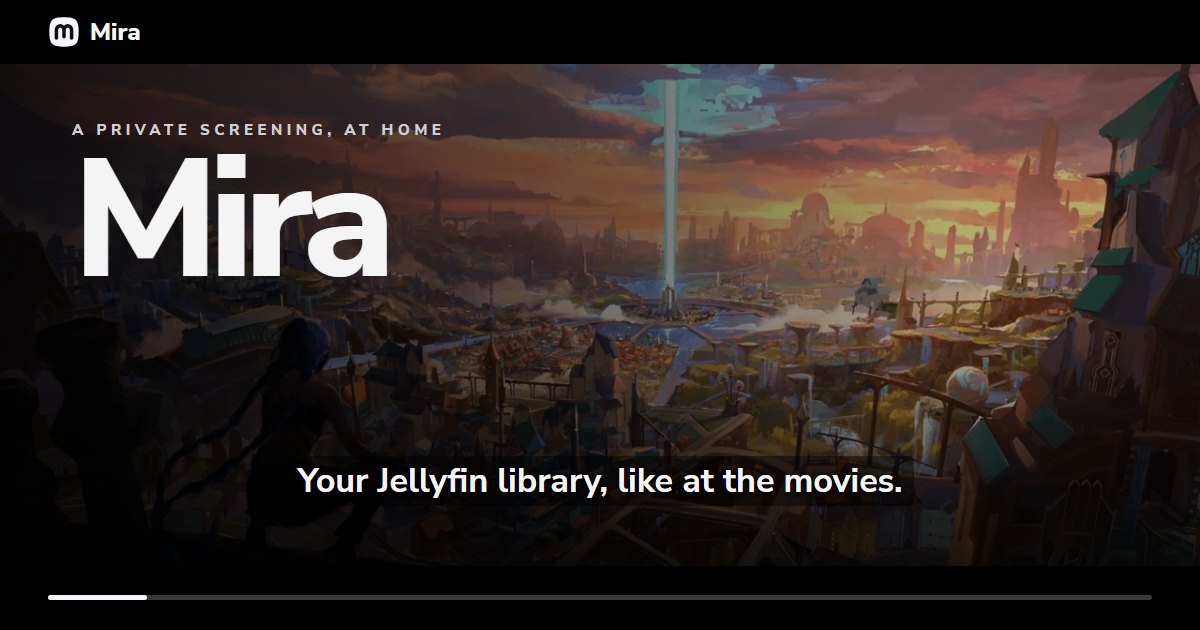
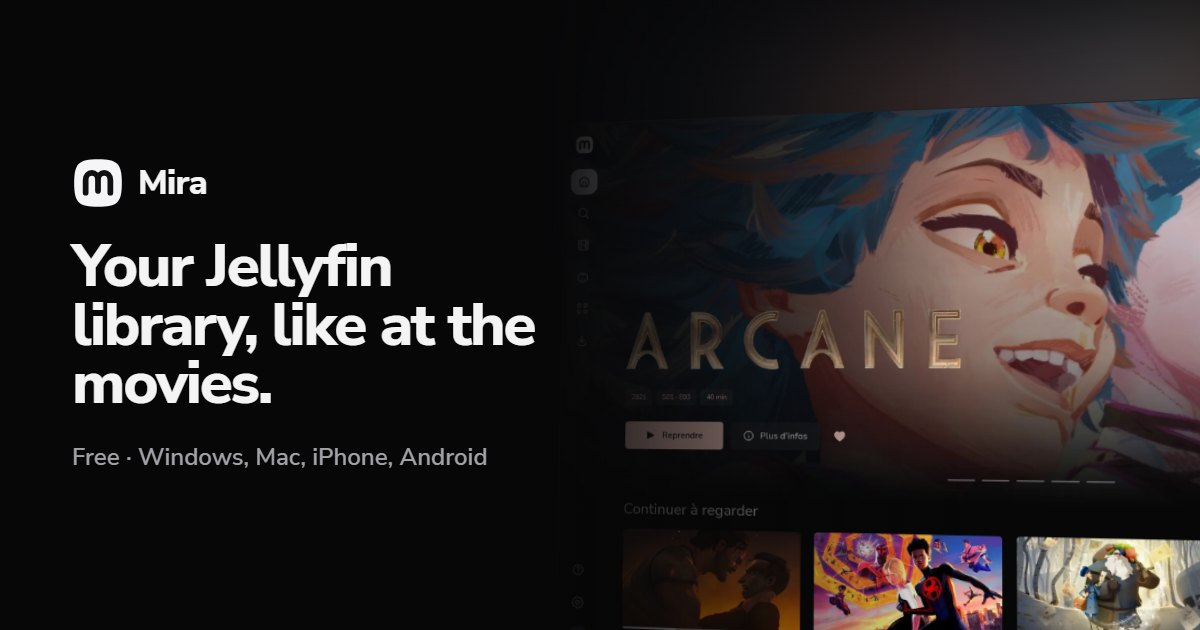
Show Mira for Windows' Home beside the site's line on the share cards

diff --git a/site/index.html b/site/index.html
@@ -17,7 +17,7 @@
   <meta property="og:title" content="Mira : ta bibliothèque Jellyfin, comme au cinéma">
   <meta property="og:description" content="Un client Jellyfin gratuit pour Windows, Mac, iPhone et Android. Sans compte, sans publicité, et rien ne quitte ton serveur.">
   <meta property="og:url" content="https://miracinema.app/">
-  <meta property="og:image" content="https://miracinema.app/img/share.jpg?v=ffa3bc8ddd">
+  <meta property="og:image" content="https://miracinema.app/img/share.jpg?v=827014fae3">
   <meta property="og:image:width" content="1200">
   <meta property="og:image:height" content="630">
   <meta property="og:locale" content="fr_FR">

diff --git a/site/en/index.html b/site/en/index.html
@@ -17,7 +17,7 @@
   <meta property="og:title" content="Mira: your Jellyfin library, like at the movies">
   <meta property="og:description" content="A free Jellyfin client for Windows, Mac, iPhone and Android. No account, no ads, and nothing leaves your server.">
   <meta property="og:url" content="https://miracinema.app/en/">
-  <meta property="og:image" content="https://miracinema.app/img/share-en.jpg?v=e769b4459d">
+  <meta property="og:image" content="https://miracinema.app/img/share-en.jpg?v=c2b7f2cbe6">
   <meta property="og:image:width" content="1200">
   <meta property="og:image:height" content="630">
   <meta property="og:locale" content="en_US">

diff --git a/CLAUDE.md b/CLAUDE.md
@@ -87,7 +87,7 @@ Android, servie par le serveur Jellyfin lui-même. Pour un particulier qui regar
 - 2026-10-16 — Mira web en anglais par défaut (demandé par l’utilisateur) : `i18n.js`, français écrit dans le code, anglais dans `lang/en/*.js` (une partie par zone), clé = texte français (`tr`, `trn` pour les comptes, `trc(contexte, …)` quand l’anglais dit deux choses) ; français si le navigateur met le français avant l’anglais, ou `settings.language` (Réglages → Langue, recharge la page) ; `tools/web/unit/i18n.test.mjs` exige l’anglais de chaque `tr` littéral ; tests Node en français par `unit/fr.mjs`, `check.mjs` en `fr-FR` sauf sa partie anglaise, `safari.mjs` règle `language` ; requêtes `Mira/…` avec `Accept-Language`, erreurs du relais traduites par `RelayText` ; glossaire commun avec Core : `/mnt/project-files/anglais/glossaire.md`.
 - 2026-10-16 — Mira pour Windows en anglais par défaut (demandé par l’utilisateur) : langue lue une fois au démarrage (`App.UseLanguage`) : Réglages → Apparence → Langue (`PlayerSettings.Language`), sinon celle de l’installateur (`ShowLanguageDialog`, `HKCU\Software\Mira\Language` = `english`/`french`, jamais demandée en silencieux : les mises à jour gardent la précédente), sinon Windows ; un changement se dit dans la langue choisie, « Relancer maintenant » (`_restartAtClose`). XAML : `{v:L 'français', 'English'}` (`Views/LExtension.cs`). Contrôles en français (`--language <code>` avec `--data`), galerie publique de `ci.yml` dans la langue du runner (anglais : vérifie que les pages tiennent), `gallery.yml` en `fr`. Langues audio et sous-titres par défaut : celle de Mira avant l’autre (le japonais reste en tête pour l’audio).
 - 2026-10-16 — TorLink seulement sur le PC de Jellyfin (Windows et Mac ; demandé par l'utilisateur) : ailleurs (adresse du serveur qui n'est pas ce PC, `JellyfinOnThisPcAsync`, nom court d'un FQDN Tailscale compris), la page Téléchargements est l'écran de Mira web en natif (`MainWindow.ServerDownloads.cs`, `JellyfinClient.TorLink*Async`, `RemoteLines`, `ReleaseRanking`, cas communs `torlink-lines.json`, `releases.json`), relu toutes les 3 s page à l'écran ; un TorLink ouvert avant est arrêté. Mac : `Views/DownloadsPage.cs`, entrée « downloads » de la barre pour un administrateur (`IsAdministratorAsync`), contrôlée par le self-check (`MockJellyfin` sert le relais). Recherche (2026-10-22, demandé par un ami d'ogsas) : films, séries et animes à la fois, plus de choix de catégorie : catégorie `all`, que le relais découpe en trois recherches pour l'agent (compatible avec un agent plus ancien), résultats mêlés en alternance par `RemoteDownloads.Combine`, marqués de leur catégorie (`RelayHit.Category`), regroupés par catégorie. Classement (web et apps) : source d'abord, 1080p avant 4K, MULTI puis VF, sources seulement pour écarter les mortes et départager (SubsPlease n'en donne pas) ; regroupé par film, épisode, saison, noms romaji rattachés à la série par leurs parenthèses. Sur le PC de Jellyfin (2026-10-22, demandé par ogsas) : le même écran par défaut (`_serverLocal`), sans relais : `torlnk search`, `TorLinkHeadless` pour télécharger et commander (démarré à l'affichage si le terminal tournait ou si la file a des arrêtés), « Vers Jellyfin » de la page en colonne de droite ; terminal à un bouton (`PlayerSettings.TorLinkTerminal`, `--torlink-check` le met à vrai) ; `TorLinkInUse` ne compte que le terminal à l'écran. Web (2026-10-23, revue de l'onglet) : relancer une recherche met le spinner au-dessus des résultats grisés ; dernière recherche gardée dans `temp` (`mira.torlink.search.<compte>`, 15 min comme le relais) et relue au rechargement (iOS), avec les résultats déjà envoyés (marqués « Envoyé », désactivés, comme Windows et Mac) ; « Rangés dans ta bibliothèque » sous « Sur le PC serveur », 3 derniers puis « Voir les N » ; lien « Le télécharger sur le PC serveur » au bas de toute Recherche d'un administrateur. Partout : ligne de qualité sans groupe de la scène (seulement un groupe entre crochets en tête, celui d'un fansub : `fansub`/`Fansub`) ; « Sur le PC serveur » nomme une release par son titre lu (`readableName`/`ReleaseRanking.Readable`, cas `readable` de `releases.json`), nom brut dessous. « Déjà dans ta bibliothèque » (web `owned.js`, Core `OwnedTitles`, cas communs `tests/fixtures/owned.json`) : après les résultats, une recherche Jellyfin par titre trouvé (10 au plus) et la liste d'épisodes d'une série trouvée ; nom comparé par `titleKey` (nom ou titre original, « (année) » d'un dossier retiré, année ±1 pour un film) ; épisode numéroté sans saison (anime) : seulement « Série dans ta bibliothèque » ; lien vers la fiche. Raison d'un échec (`RelayDownload.Error`) : l'API `/downloads` de TorLink 1.9.0 ne la donne pas, `queue.json` si (`TorLinkRemote.WithErrors`) ; disque plein et droits dits par Mira (`failure`/`RemoteLines.Failure`), le reste dans les mots de TorLink.
-- 2026-10-22 — Site vitrine miracinema.app (demandé par ogsas, domaine chez Porkbun) : GitHub Pages par `site.yml` (gratuit, dépôt public, DNS gardé chez Porkbun : A/AAAA de GitHub, `www` en CNAME ; Cloudflare Pages exigerait ses serveurs DNS pour l'apex) ; rien de chargé ailleurs (CSP par `<meta>`, polices et icônes servies par le site, `no-referrer`), aucun traqueur ; animations coupées par `prefers-reduced-motion`, page complète sans JS (`@media (scripting: …)`). Refait le jour même en « La séance » (ogsas trouvait le premier trop générique, concept choisi parmi trois) : la page est un film dans le lecteur de Mira (barre du haut, barre de lecture en bas : chapitres = sections, aperçu au survol, menus Sous-titres = langue et Chapitres en `popover`, clavier, « Reprendre » gardé dans `localStorage` `mira.site.at`, Lecture = défilement à 6 min la page), texte en sous-titres sous un cadre qui reste (`.scene`/`.cue`, liste sans JS ou sous 900 px). Téléphones (2026-10-23, demandé par ogsas, « iPhone 18-like ») : dessinés en CSS autour des captures plein écran (`.phone` conteneur, tailles en `cqw` : un `padding` en % se calcule sur `.phones`, d'où les anciens cadres épais) ; barre d'état, Dynamic Island et indicateur d'accueil en SVG `data:` (permis par `img-src`). Changement de plan (2026-10-23, « trop brut ») : l'ancien monte et s'efface (`.past`, posé par `cue()`), le nouveau monte d'en bas 200 ms après, les téléphones ouvrent leur éventail depuis celui du milieu (`--fan`) ; une `transition` sur `.phones` seule remplaçait celle de `.shot` (téléphones apparus d'un coup) : `.shot.phones` les réunit. Cartes de partage : Discord garde une image par son adresse (il montrait encore la carte Sintel des débuts) : `share.mjs` met l'empreinte de la carte dans l'`og:image` (`share.jpg?v=<sha256 court>`) de chaque page. À l'affiche (2026-10-23, demandé par ogsas, à la place de Spring) : Arcane (© Riot Games, Fortiche ; mêmes droits que Dune, choix d'ogsas) ; image d'ouverture = illustration de Piltover fournie par ogsas (2000 px : `film` en 640, 1280 et 2000 sans redimensionner, WebP qualité 90 ; image immobile : ni dérive ni zoom, qui la rééchantillonnaient à chaque image, floue et tremblante), pas `gallery.yml`. Captures du README faites sur un Jellyfin 12.1 local de démonstration (compilé depuis ses sources, lié à `127.0.0.1`, vidéos noires nommées pour TMDb : Arcane, 20 films d'animation, 4 séries ; illustrations d'ogsas en fonds d'Arcane ; captures web en écran entier d'iPhone), légendes « serveur Jellyfin de démonstration » ; `gallery.yml` et `tools/gallery/` restent sur les films libres.
+- 2026-10-22 — Site vitrine miracinema.app (demandé par ogsas, domaine chez Porkbun) : GitHub Pages par `site.yml` (gratuit, dépôt public, DNS gardé chez Porkbun : A/AAAA de GitHub, `www` en CNAME ; Cloudflare Pages exigerait ses serveurs DNS pour l'apex) ; rien de chargé ailleurs (CSP par `<meta>`, polices et icônes servies par le site, `no-referrer`), aucun traqueur ; animations coupées par `prefers-reduced-motion`, page complète sans JS (`@media (scripting: …)`). Refait le jour même en « La séance » (ogsas trouvait le premier trop générique, concept choisi parmi trois) : la page est un film dans le lecteur de Mira (barre du haut, barre de lecture en bas : chapitres = sections, aperçu au survol, menus Sous-titres = langue et Chapitres en `popover`, clavier, « Reprendre » gardé dans `localStorage` `mira.site.at`, Lecture = défilement à 6 min la page), texte en sous-titres sous un cadre qui reste (`.scene`/`.cue`, liste sans JS ou sous 900 px). Téléphones (2026-10-23, demandé par ogsas, « iPhone 18-like ») : dessinés en CSS autour des captures plein écran (`.phone` conteneur, tailles en `cqw` : un `padding` en % se calcule sur `.phones`, d'où les anciens cadres épais) ; barre d'état, Dynamic Island et indicateur d'accueil en SVG `data:` (permis par `img-src`). Changement de plan (2026-10-23, « trop brut ») : l'ancien monte et s'efface (`.past`, posé par `cue()`), le nouveau monte d'en bas 200 ms après, les téléphones ouvrent leur éventail depuis celui du milieu (`--fan`) ; une `transition` sur `.phones` seule remplaçait celle de `.shot` (téléphones apparus d'un coup) : `.shot.phones` les réunit. Cartes de partage : Discord garde une image par son adresse (il montrait encore la carte Sintel des débuts) : `share.mjs` met l'empreinte de la carte dans l'`og:image` (`share.jpg?v=<sha256 court>`) de chaque page ; carte = la phrase du site à côté de l'Accueil de Mira pour Windows (`windows-home`, comme au début, demandé par ogsas), pas l'ouverture. À l'affiche (2026-10-23, demandé par ogsas, à la place de Spring) : Arcane (© Riot Games, Fortiche ; mêmes droits que Dune, choix d'ogsas) ; image d'ouverture = illustration de Piltover fournie par ogsas (2000 px : `film` en 640, 1280 et 2000 sans redimensionner, WebP qualité 90 ; image immobile : ni dérive ni zoom, qui la rééchantillonnaient à chaque image, floue et tremblante), pas `gallery.yml`. Captures du README faites sur un Jellyfin 12.1 local de démonstration (compilé depuis ses sources, lié à `127.0.0.1`, vidéos noires nommées pour TMDb : Arcane, 20 films d'animation, 4 séries ; illustrations d'ogsas en fonds d'Arcane ; captures web en écran entier d'iPhone), légendes « serveur Jellyfin de démonstration » ; `gallery.yml` et `tools/gallery/` restent sur les films libres.
 - 2026-10-18 — Serveur proposé à la connexion (Windows `MainWindow.ServerSearch.cs`, Mac `LoginPage`, `ServerSearch` de Core ; demandé par ogsas, qui voyait `127.0.0.1` sur un PC sans Jellyfin) : tant qu'aucune adresse n'est connue, 127.0.0.1:8096, la découverte de Jellyfin (« Who is JellyfinServer? » en UDP 7359, diffusé sur chaque réseau ; réponse `Address`/`Id`/`Name` vérifiée sur 12.1) et les appareils Tailscale en ligne (`tailscale status --json`, ni téléphones ni sorties Mullvad, 32 au plus), 2,5 s ; un serveur par `Id`, adresse ce PC > Tailscale > maison ; adresse tapée jamais remplacée ; rien trouvé = vide (127.0.0.1 si Jellyfin est installé ici). Règle « Mira - Jellyfin » + UDP 7359 depuis `localsubnet` (sinon le pare-feu de Windows bloque la découverte) : l'ancienne règle devient `Stale`, l'avis du démarrage envoie à « Tout préparer ». Mac : `NSLocalNetworkUsageDescription` (invite de macOS 15).
 - 2026-10-23 — Commandes du lecteur visibles dans les captures et partages (Windows, demandé par ogsas) : fenêtre enfant transparente (`PlayerOverlay`, `WS_CHILD` + `WS_EX_LAYERED`, manifeste Windows 8+), plus de `WDA_EXCLUDEFROMCAPTURE` (un partage de fenêtre Discord/OBS ne voit jamais une autre fenêtre de premier niveau). Jamais de pause sans le vouloir (Windows, Mac, web) : la bande d'une barre (`InBarBand`), cachée ou non, et le clic qui ramène Mira devant (`WM_MOUSEACTIVATE` → `TakeActivatingClick` ; Mac `ActivatedAt`) ne font qu'afficher les commandes ; surface gardée sur la vidéo Mira à l'arrière-plan, `MBTN_LEFT` de mpv = mouvement ; web : `.p-top`/`.p-bottom` prennent les touchers (ni cacher ni double toucher ±10 s).
 
